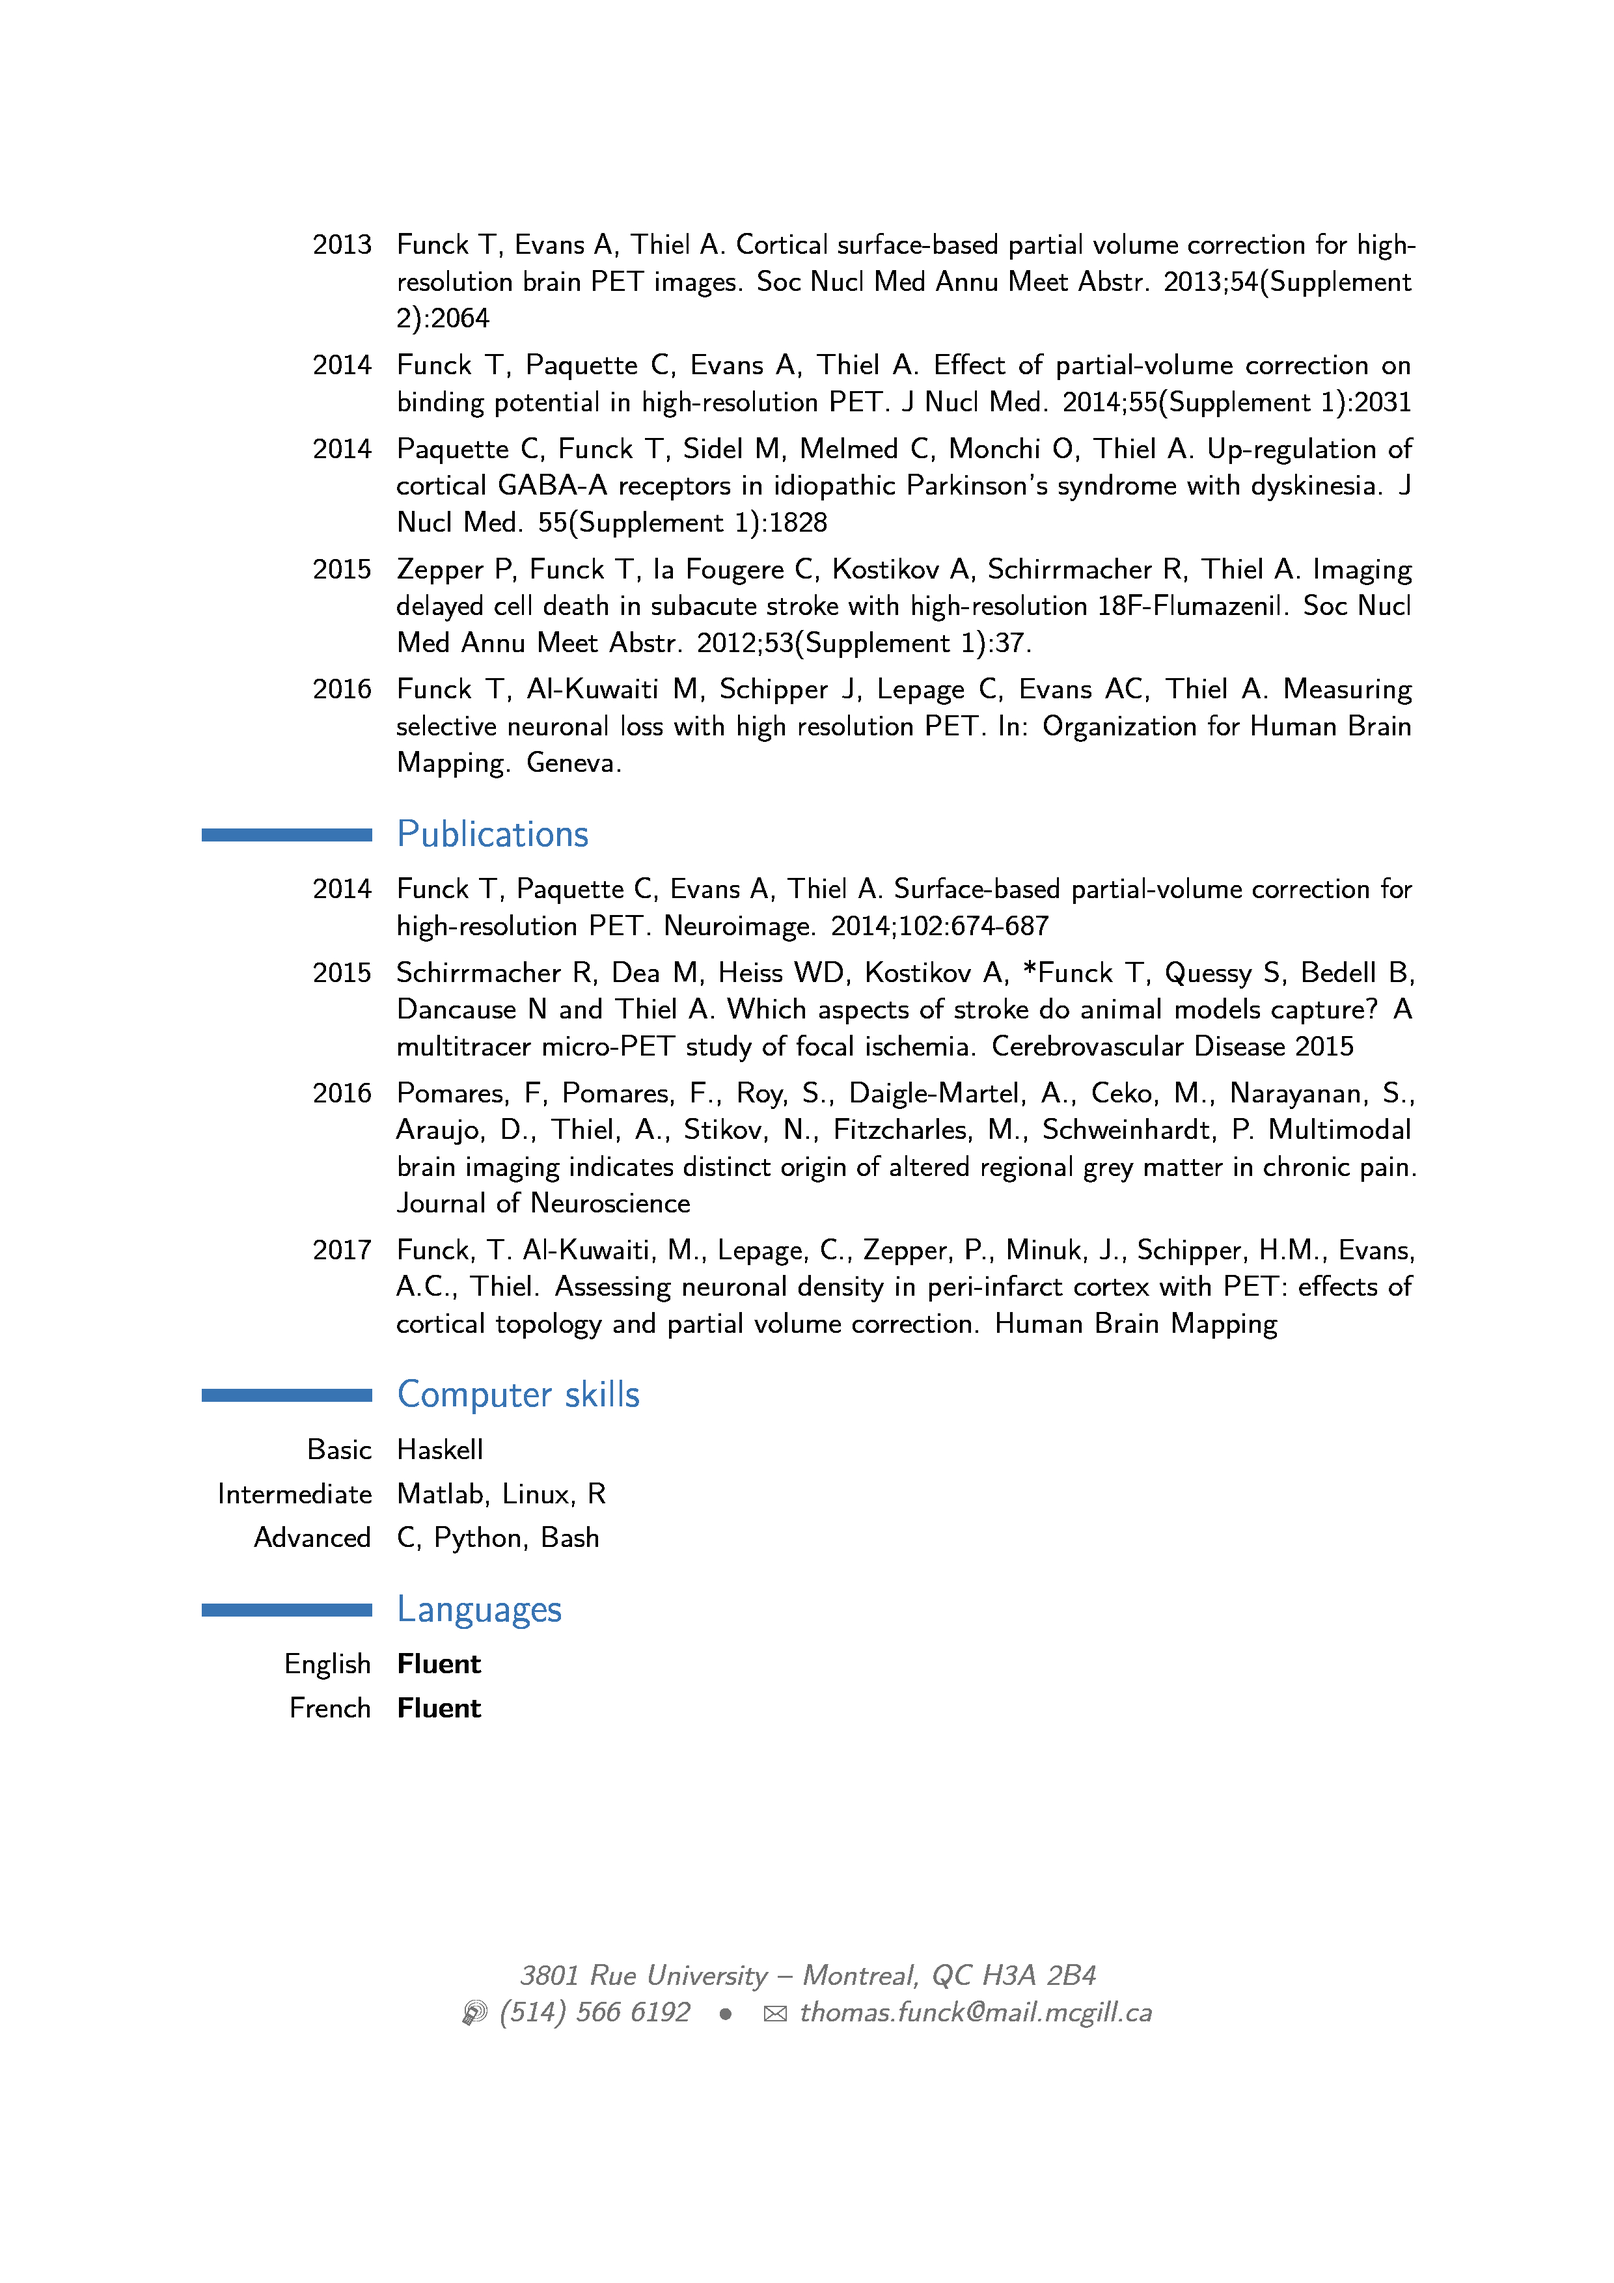
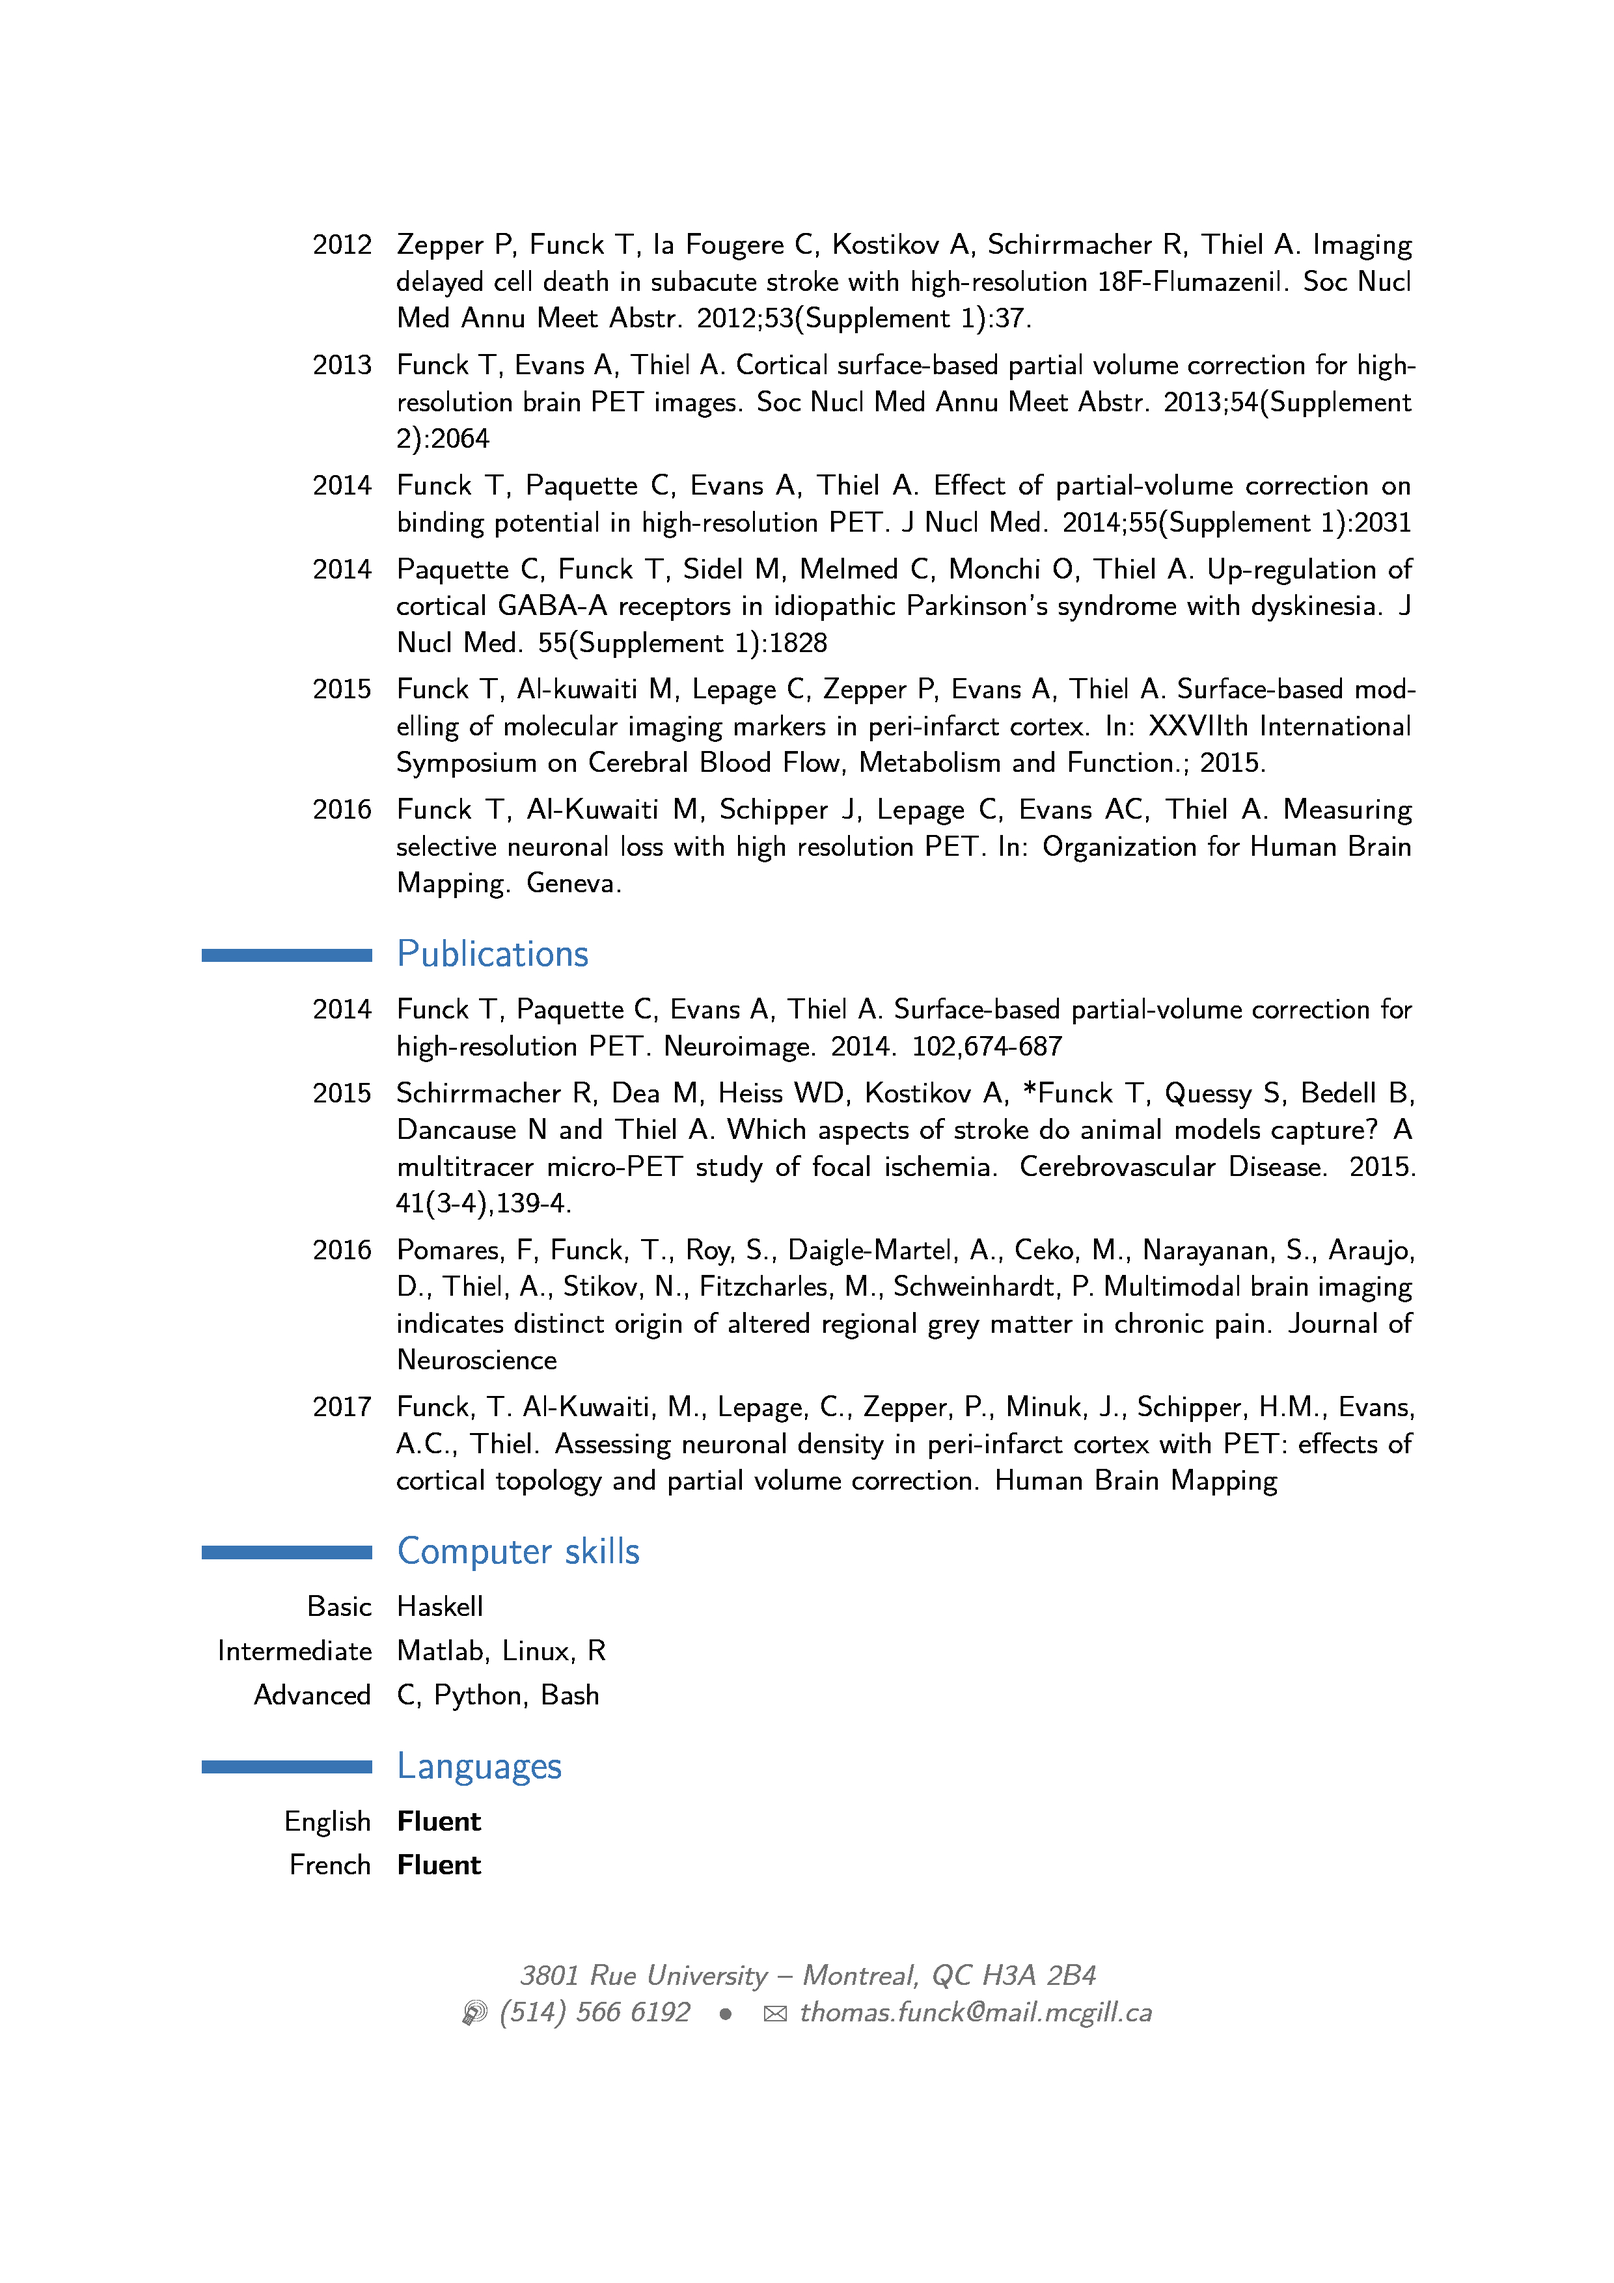
Added 2015 abstract

Changed region(s): [[0.1242, 0.0932, 0.8694, 0.8389], [0.1863, 0.1864, 0.2173, 0.2175]]

diff --git a/main/funck_cv.tex b/main/funck_cv.tex
@@ -110,6 +110,7 @@
 \cvitem{2014}{Paquette C, Funck T, Sidel M, Melmed C, Monchi O, Thiel A. Up-regulation of cortical GABA-A receptors in idiopathic Parkinson's syndrome with dyskinesia. J Nucl Med.
 55(Supplement 1):1828}	
 
+\cvitem{2015} {Funck T, Al-kuwaiti M, Lepage C, Zepper P, Evans A, Thiel A. Surface-based modelling of molecular imaging markers in peri-infarct cortex. In: XXVIIth International Symposium on Cerebral Blood Flow, Metabolism and Function.; 2015.}
 
 \cvitem{2016}{Funck T, Al-Kuwaiti M, Schipper J, Lepage C, Evans AC, Thiel A. Measuring selective neuronal loss with high resolution PET. In: Organization for Human Brain Mapping. Geneva.}
 
